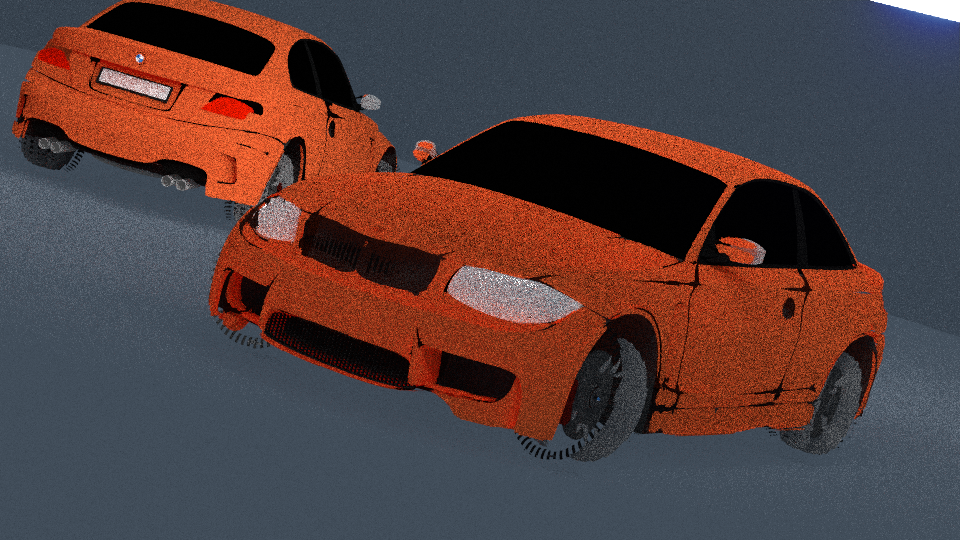
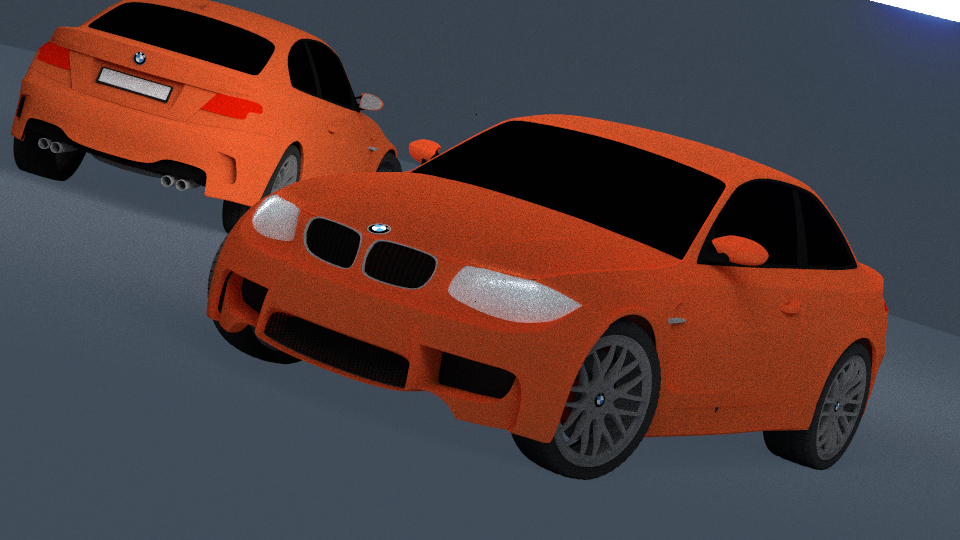
Update readme

Changed region(s): [[0.0, 0.0, 0.9375, 0.8889], [0.5312, 0.2074, 0.8438, 0.3852], [0.0938, 0.0, 0.125, 0.0296]]

diff --git a/README.MD b/README.MD
@@ -2,7 +2,8 @@
 A GPU renderer for prototyping and research written *purely in python*
 
 ![BMW scene render!](/examples/bmw.png "BMW Scene")
-BMW scene from Mike Pan (note missing geo on tires)
+
+BMW scene from Mike Pan
 
 ## Installing
 Download the zip of this repo and install through Blender's plugin mechanism.  Taichi will be installed automatically the first time you load.  
@@ -11,6 +12,8 @@ Alternatively, if you are a developer you probably want to manage this somewhere
 
 ## What
 This is an addon for a renderer to run as an add-on to Blender.  Blender has many renderers already, including the very good Cycles renderer built in, and (shameless self-promotion of other projects I'm involved in) [Radeon ProRender](https://github.com/GPUOpen-LibrariesAndSDKs/RadeonProRenderBlenderAddon).  If you are looking to render pictures for artwork, you should use one of those.
+
+![Cornell Box Render!](/examples/cornell_box.png "Cornell Box")
 
 ## Why
 It seems half the repos I see on github are someone's "Toy Renderer" project. Do we really need another one?
@@ -28,8 +31,6 @@ Currently the renderer will load and path trace scenes in Blender when you hit t
 
 Some known issues:  
 - Handles emissive lights and diffuse materials only
-- Some missing geometry (like in the BMW scene) and artifacts (like in the cornell box)
-![Cornell Box Render!](/examples/cornell_box.png "Cornell Box")
 - Errors caused when doing large bounce depths and resolutions
 
 ## Contributions
